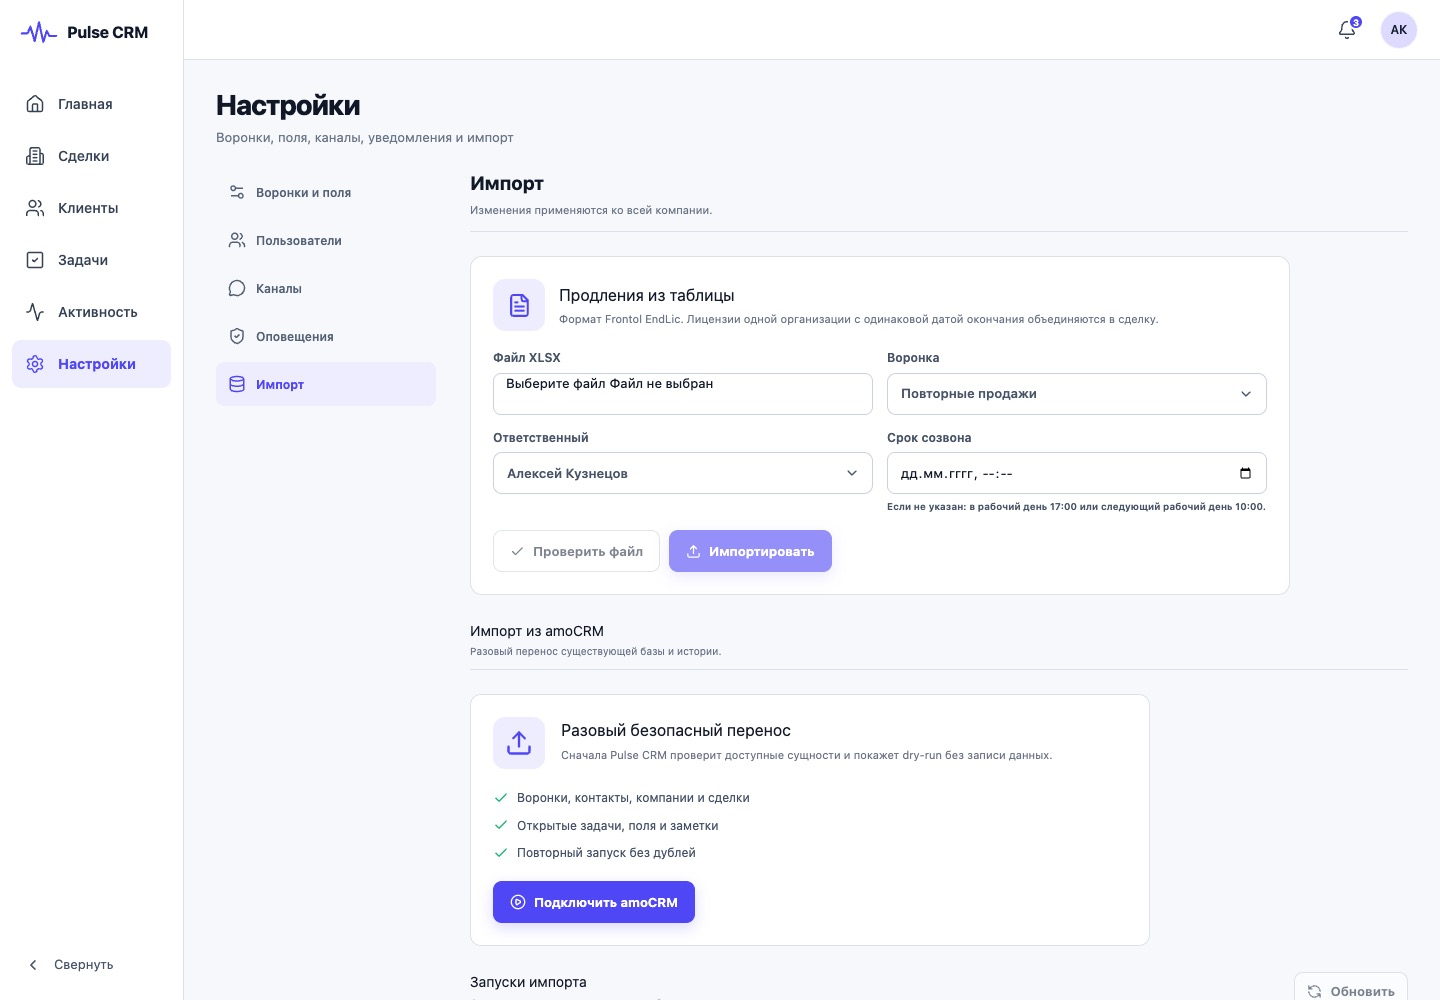
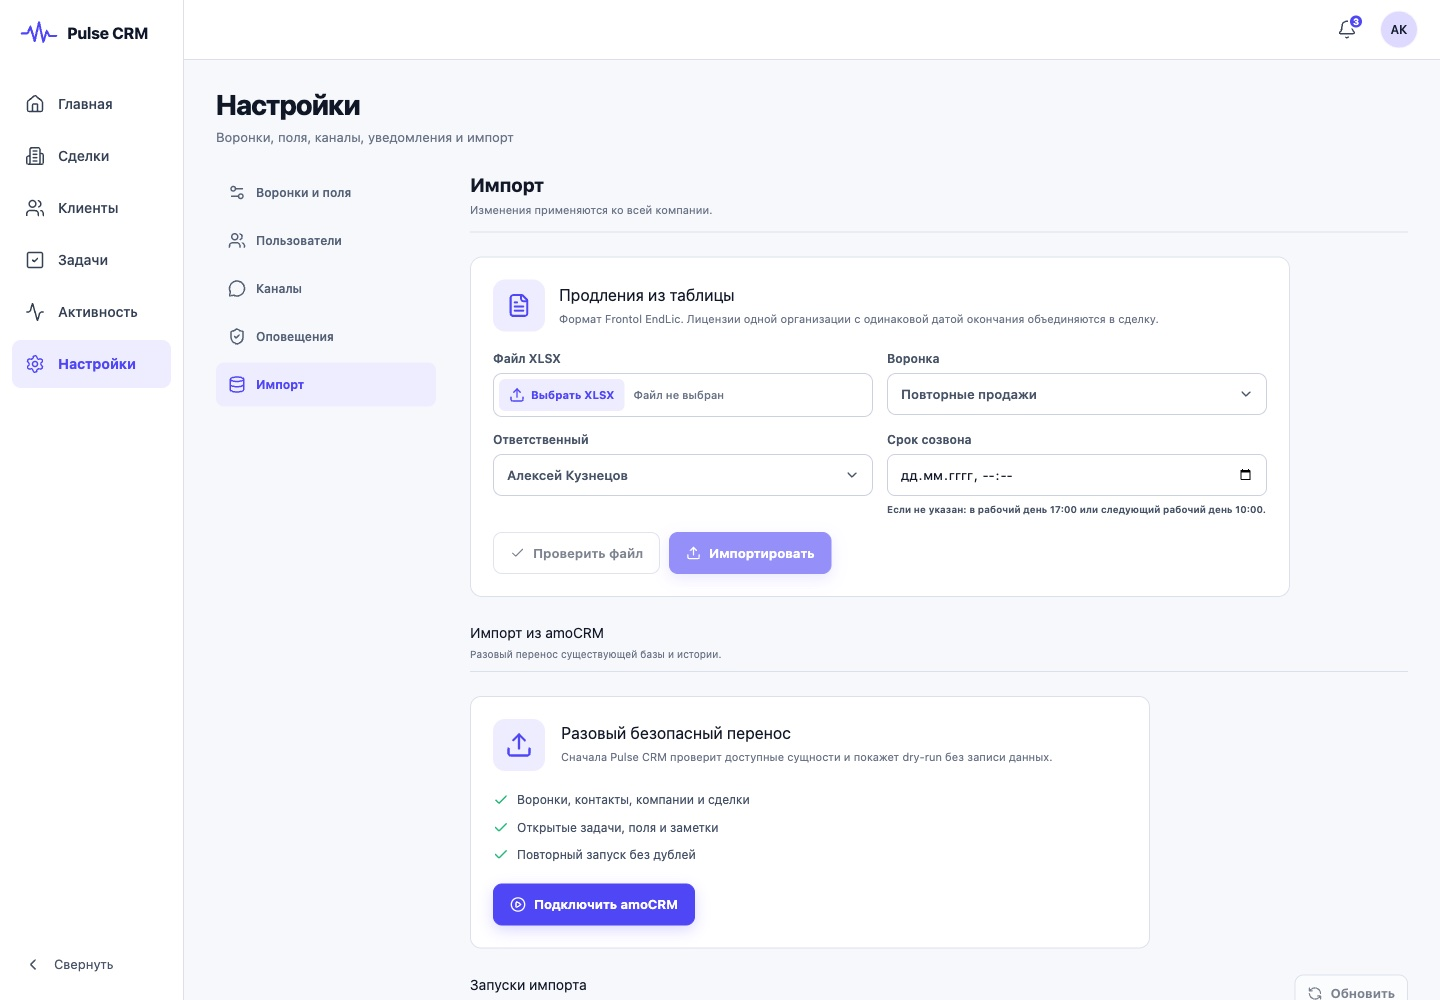
Корректировка полей

diff --git a/frontend/src/styles.css b/frontend/src/styles.css
@@ -1030,10 +1030,21 @@ a {
 .import-panel li { display: flex; align-items: center; gap: 8px; color: #435066; font-size: 12px; }
 .import-panel li svg { color: var(--green); }
 .import-panel .button { grid-column: 1 / -1; justify-self: start; }
-.subscription-import { max-width: 820px; margin-top: 24px; border: 1px solid var(--border); border-radius: 12px; background: white; padding: 22px; }
+.subscription-import { width: min(820px, 100%); min-width: 0; margin-top: 24px; border: 1px solid var(--border); border-radius: 12px; background: white; padding: 22px; }
 .subscription-import > header { display: flex; align-items: center; gap: 14px; margin-bottom: 18px; }
+.subscription-import > header > div { min-width: 0; }
 .subscription-import > header h3 { margin: 0 0 4px; font-size: 16px; }
 .subscription-import > header p { margin: 0; color: var(--muted); font-size: 11px; line-height: 1.5; }
+.subscription-import .settings-form-grid,
+.subscription-import .field { min-width: 0; }
+.subscription-import .field > input:not(.sr-only),
+.subscription-import .field > select { width: 100%; min-width: 0; max-width: 100%; }
+.subscription-import__file { cursor: pointer; }
+.subscription-import__file-control { display: grid; min-width: 0; min-height: 42px; grid-template-columns: auto minmax(0, 1fr); align-items: center; gap: 9px; border: 1px solid var(--border-strong); border-radius: 9px; background: white; padding: 5px; }
+.subscription-import__file:focus-within .subscription-import__file-control { border-color: var(--accent); box-shadow: 0 0 0 3px rgba(79, 70, 245, .09); }
+.subscription-import__file-trigger { display: inline-flex; min-height: 32px; align-items: center; justify-content: center; gap: 6px; border-radius: 6px; background: var(--accent-soft); padding: 0 10px; color: var(--accent); font-size: 11px; font-weight: 700; white-space: nowrap; }
+.subscription-import__file-name { min-width: 0; overflow: hidden; padding-right: 7px; color: var(--muted); font-size: 11px; font-weight: 500; text-overflow: ellipsis; white-space: nowrap; }
+.subscription-import__file-name--selected { color: #344054; }
 .subscription-import__actions { justify-content: flex-start; margin-top: 16px; }
 .subscription-import__preview { margin-top: 18px; border-top: 1px solid var(--border); padding-top: 16px; }
 .subscription-import__preview > header { display: flex; align-items: baseline; justify-content: space-between; gap: 12px; }
@@ -1430,7 +1441,11 @@ a {
   .activity-event > time { grid-column: 2; }
 
   .settings-layout { grid-template-columns: 1fr; gap: 20px; }
-  .settings-nav { flex-direction: row; overflow-x: auto; padding-bottom: 4px; }
+  .settings-layout,
+  .settings-content,
+  .settings-content [role="tabpanel"] { width: 100%; min-width: 0; }
+  .settings-nav { max-width: calc(100vw - 32px); flex-direction: row; overflow-x: auto; padding-bottom: 4px; overscroll-behavior-inline: contain; scrollbar-width: none; }
+  .settings-nav::-webkit-scrollbar { display: none; }
   .settings-nav button { flex: 0 0 auto; min-height: 40px; }
   .settings-heading { align-items: center; }
   .settings-heading h2 { font-size: 17px; }
@@ -1471,6 +1486,25 @@ a {
   .amocrm-connection .operation-actions { grid-column: 2 / -1; }
   .settings-subsection > header .button { flex: 0 0 auto; }
   .import-panel { grid-template-columns: auto 1fr; padding: 17px; }
+  .subscription-import { width: 100%; max-width: 100%; margin-top: 16px; overflow: hidden; padding: 16px; }
+  .subscription-import > header { align-items: flex-start; gap: 11px; margin-bottom: 16px; }
+  .subscription-import > header .import-panel__icon { width: 42px; height: 42px; flex: 0 0 auto; border-radius: 10px; }
+  .subscription-import > header h3 { font-size: 17px; line-height: 1.3; }
+  .subscription-import > header p { font-size: 12px; }
+  .subscription-import .field { gap: 7px; font-size: 12px; }
+  .subscription-import .field > input:not(.sr-only),
+  .subscription-import .field > select,
+  .subscription-import__file-control { min-height: 48px; border-radius: 10px; }
+  .subscription-import__file-control { grid-template-columns: auto minmax(0, 1fr); gap: 8px; }
+  .subscription-import__file-trigger { min-height: 36px; padding-inline: 9px; }
+  .subscription-import__file-name { font-size: 12px; }
+  .subscription-import .field > small { font-size: 10px; line-height: 1.45; }
+  .subscription-import__actions { display: grid; grid-template-columns: repeat(2, minmax(0, 1fr)); gap: 8px; }
+  .subscription-import__actions .button { width: 100%; min-width: 0; min-height: 48px; padding-inline: 8px; font-size: 12px; white-space: nowrap; }
+  .subscription-import__preview > header { align-items: flex-start; flex-direction: column; gap: 4px; }
+  .subscription-import__group { grid-template-columns: minmax(0, 1fr) auto; gap: 7px 10px; }
+  .subscription-import__group strong { white-space: normal; }
+  .subscription-import__group em { grid-column: 1 / -1; }
 
   .login-page { grid-template-columns: 1fr; }
   .login-panel { width: min(420px, calc(100% - 32px)); gap: 32px; }
@@ -1498,6 +1532,13 @@ a {
   .mobile-fab[hidden] { display: none; }
   .mobile-fab:hover { background: var(--accent-hover); }
   .mobile-fab:active { transform: scale(.96); }
+}
+
+@media (max-width: 360px) {
+  .subscription-import__file-control { grid-template-columns: 1fr; }
+  .subscription-import__file-trigger { width: 100%; }
+  .subscription-import__file-name { padding: 0 7px 4px; text-align: center; }
+  .subscription-import__actions { grid-template-columns: 1fr; }
 }
 
 @media (prefers-reduced-motion: reduce) {

diff --git a/frontend/src/pages/SettingsPage.tsx b/frontend/src/pages/SettingsPage.tsx
@@ -1289,6 +1289,7 @@ function ImportPanel() {
 
 function SubscriptionImportPanel({ onImported }: { onImported: () => unknown }) {
   const { pipelines, dealAssignees } = useCrm();
+  const fileInputId = useId();
   const [file, setFile] = useState<File | null>(null);
   const [pipelineId, setPipelineId] = useState("");
   const [assigneeId, setAssigneeId] = useState("");
@@ -1341,7 +1342,14 @@ function SubscriptionImportPanel({ onImported }: { onImported: () => unknown }) 
       <div><h3 id="subscription-import-title">Продления из таблицы</h3><p>Формат Frontol EndLic. Лицензии одной организации с одинаковой датой окончания объединяются в сделку.</p></div>
     </header>
     <div className="settings-form-grid">
-      <label className="field"><span>Файл XLSX</span><input type="file" accept=".xlsx,application/vnd.openxmlformats-officedocument.spreadsheetml.sheet" onChange={(event) => { setFile(event.target.files?.[0] ?? null); setResult(null); }} /></label>
+      <label className="field subscription-import__file" htmlFor={fileInputId}>
+        <span>Файл XLSX</span>
+        <span className="subscription-import__file-control">
+          <span className="subscription-import__file-trigger"><Upload size={16} /> Выбрать XLSX</span>
+          <span className={file ? "subscription-import__file-name subscription-import__file-name--selected" : "subscription-import__file-name"} title={file?.name}>{file?.name ?? "Файл не выбран"}</span>
+        </span>
+        <input id={fileInputId} className="sr-only" type="file" aria-label="Файл XLSX" accept=".xlsx,application/vnd.openxmlformats-officedocument.spreadsheetml.sheet" onChange={(event) => { setFile(event.target.files?.[0] ?? null); setResult(null); }} />
+      </label>
       <label className="field"><span>Воронка</span><select value={pipelineId} onChange={(event) => { setPipelineId(event.target.value); setResult(null); }} required><option value="">Выберите воронку</option>{pipelines.map((pipeline) => <option key={pipeline.id} value={pipeline.id}>{pipeline.name}</option>)}</select></label>
       <label className="field"><span>Ответственный</span><select value={assigneeId} onChange={(event) => { setAssigneeId(event.target.value); setResult(null); }} required><option value="">Выберите сотрудника</option>{dealAssignees.filter((user) => user.id !== "unassigned").map((user) => <option key={user.id} value={user.id}>{user.name}</option>)}</select></label>
       <label className="field"><span>Срок созвона</span><input type="datetime-local" value={callDueAt} onChange={(event) => { setCallDueAt(event.target.value); setResult(null); }} /><small>Если не указан: в рабочий день 17:00 или следующий рабочий день 10:00.</small></label>

diff --git a/frontend/src/pages/SettingsPage.test.tsx b/frontend/src/pages/SettingsPage.test.tsx
@@ -88,6 +88,7 @@ describe("SettingsPage subscription imports", () => {
       type: "application/vnd.openxmlformats-officedocument.spreadsheetml.sheet",
     });
     await user.upload(screen.getByLabelText("Файл XLSX"), file);
+    expect(screen.getByText("renewals.xlsx")).toBeInTheDocument();
     const preview = screen.getByRole("button", { name: /Проверить файл/ });
     expect(preview).toBeEnabled();
     await user.click(preview);

diff --git a/docs/user-guide.md b/docs/user-guide.md
@@ -628,8 +628,10 @@ Telegram и MAX предназначены только для клиента с
 формате **Frontol EndLic**. До изменения CRM обязательно выполните проверку:
 
 1. Откройте **Настройки → Импорт → Продления из таблицы**.
-2. Выберите файл `.xlsx`, воронку и ответственного. Сделки попадут на первый
-   открытый этап выбранной воронки.
+2. Нажмите **Выбрать XLSX**, затем выберите воронку и ответственного. Имя
+   выбранного файла появится рядом с кнопкой; длинное имя сокращается в строке,
+   не растягивая форму. Сделки попадут на первый открытый этап выбранной
+   воронки.
 3. При необходимости задайте общий срок созвона. Если оставить поле пустым, в
    рабочий день до 17:00 задача будет назначена на 17:00; после 17:00 или в
    выходной — на 10:00 следующего рабочего дня по часовому поясу рабочего
